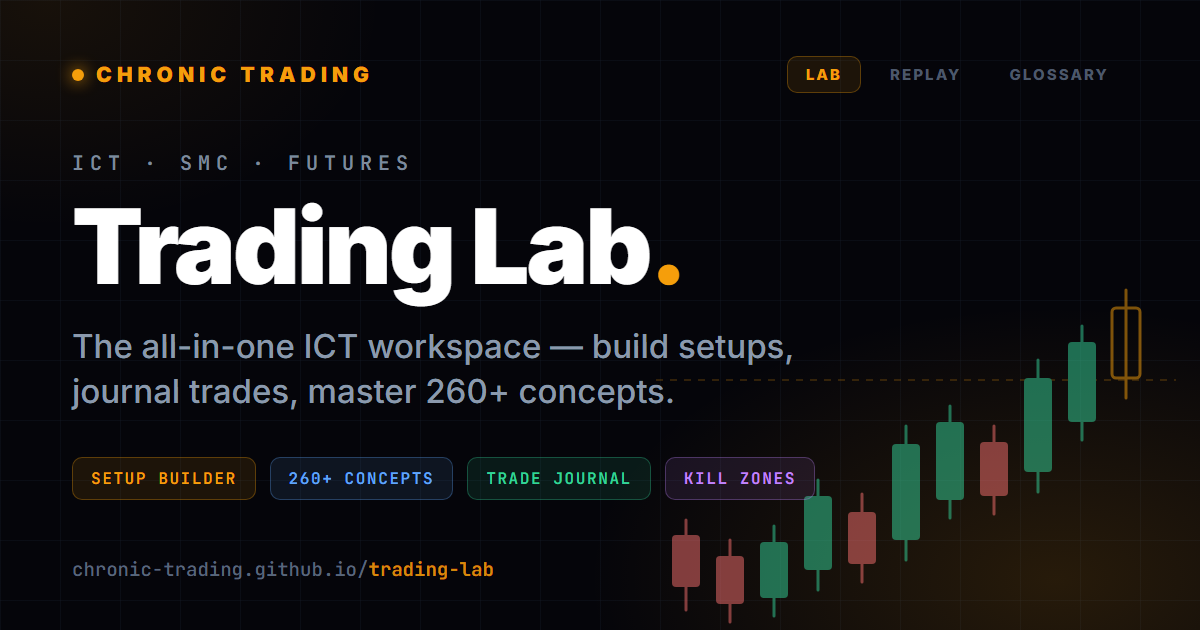
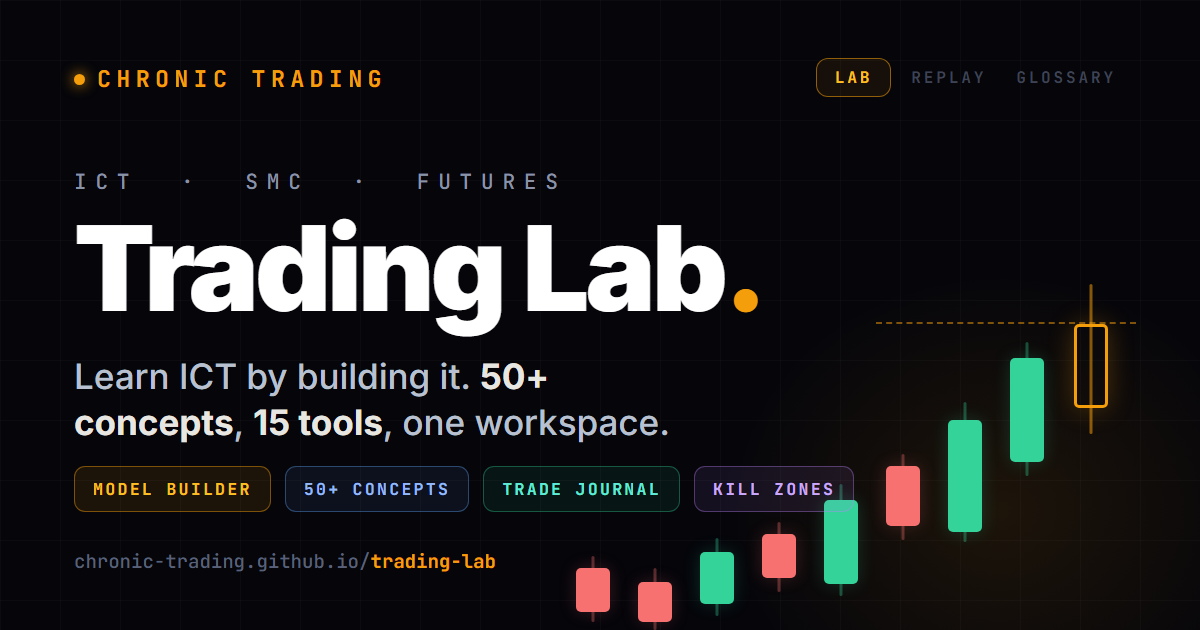
Refresh the OG image and align meta copy with the repositioning
The share image claimed 'master 260+ concepts' while the app ships 52
and the landing says 50+, so every social share contradicted the site.
Rebuilt at 1200x630 with the same composition and palette, correct
facts (50+ concepts, 15 tools), and the learning-first pitch.

meta description, og:description, and the schema.org description still
pitched the old 'grade your setups' pro angle; all three now lead with
what the product is: a model builder for traders learning ICT.

diff --git a/index.html b/index.html
@@ -5,13 +5,13 @@
     <link rel="icon" type="image/svg+xml" href="/favicon.svg" />
     <meta name="viewport" content="width=device-width, initial-scale=1.0" />
     <title>Trading Lab — ICT · SMC · Futures Workspace | Chronic Trading</title>
-    <meta name="description" content="The all-in-one ICT trading workspace: Trade Grader, setup builder, 50+ concept map, trade journal, playbook, backtest replay, kill zone clock, prop firm compare, and more. One-time $9.99, lifetime access." />
+    <meta name="description" content="Learn ICT by building it. A model builder for traders learning ICT: 15 tools, 50+ mapped concepts, spaced-repetition review, trade journal, and bar-by-bar replay in one workspace. One-time $9.99, lifetime access." />
     <meta name="theme-color" content="#05050a" />
     <link rel="canonical" href="https://chronic-trading.github.io/trading-lab/" />
     <meta property="og:type" content="website" />
     <meta property="og:site_name" content="Chronic Trading" />
     <meta property="og:title" content="Trading Lab — ICT · SMC · Futures Workspace" />
-    <meta property="og:description" content="Grade your setups, build systems from 50+ ICT concepts, journal trades, study your playbook, and train with backtest replay — all in one workspace. One-time $9.99." />
+    <meta property="og:description" content="A model builder for traders learning ICT. Stack the concepts, watch the synergies connect, and master the framework in one place. 15 tools, one-time $9.99." />
     <meta property="og:url" content="https://chronic-trading.github.io/trading-lab/" />
     <meta property="og:image" content="https://chronic-trading.github.io/trading-lab/og.png" />
     <meta property="og:image:width" content="1200" />
@@ -31,7 +31,7 @@
       "operatingSystem": "Web, iOS, Android",
       "url": "https://chronic-trading.github.io/trading-lab/",
       "image": "https://chronic-trading.github.io/trading-lab/og.png",
-      "description": "An all-in-one ICT / SMC trading workspace: grade your setups against weighted confluences, build a system from 50+ mapped concepts, journal trades with R-multiples, and train with backtest replay.",
+      "description": "A model builder for traders learning ICT and SMC: stack 50+ mapped concepts into trading models, drill them with spaced repetition, journal trades with R-multiples, and practice with bar-by-bar replay.",
       "author": { "@type": "Organization", "name": "Chronic Trading" },
       "publisher": { "@type": "Organization", "name": "Chronic Trading" },
       "offers": {
